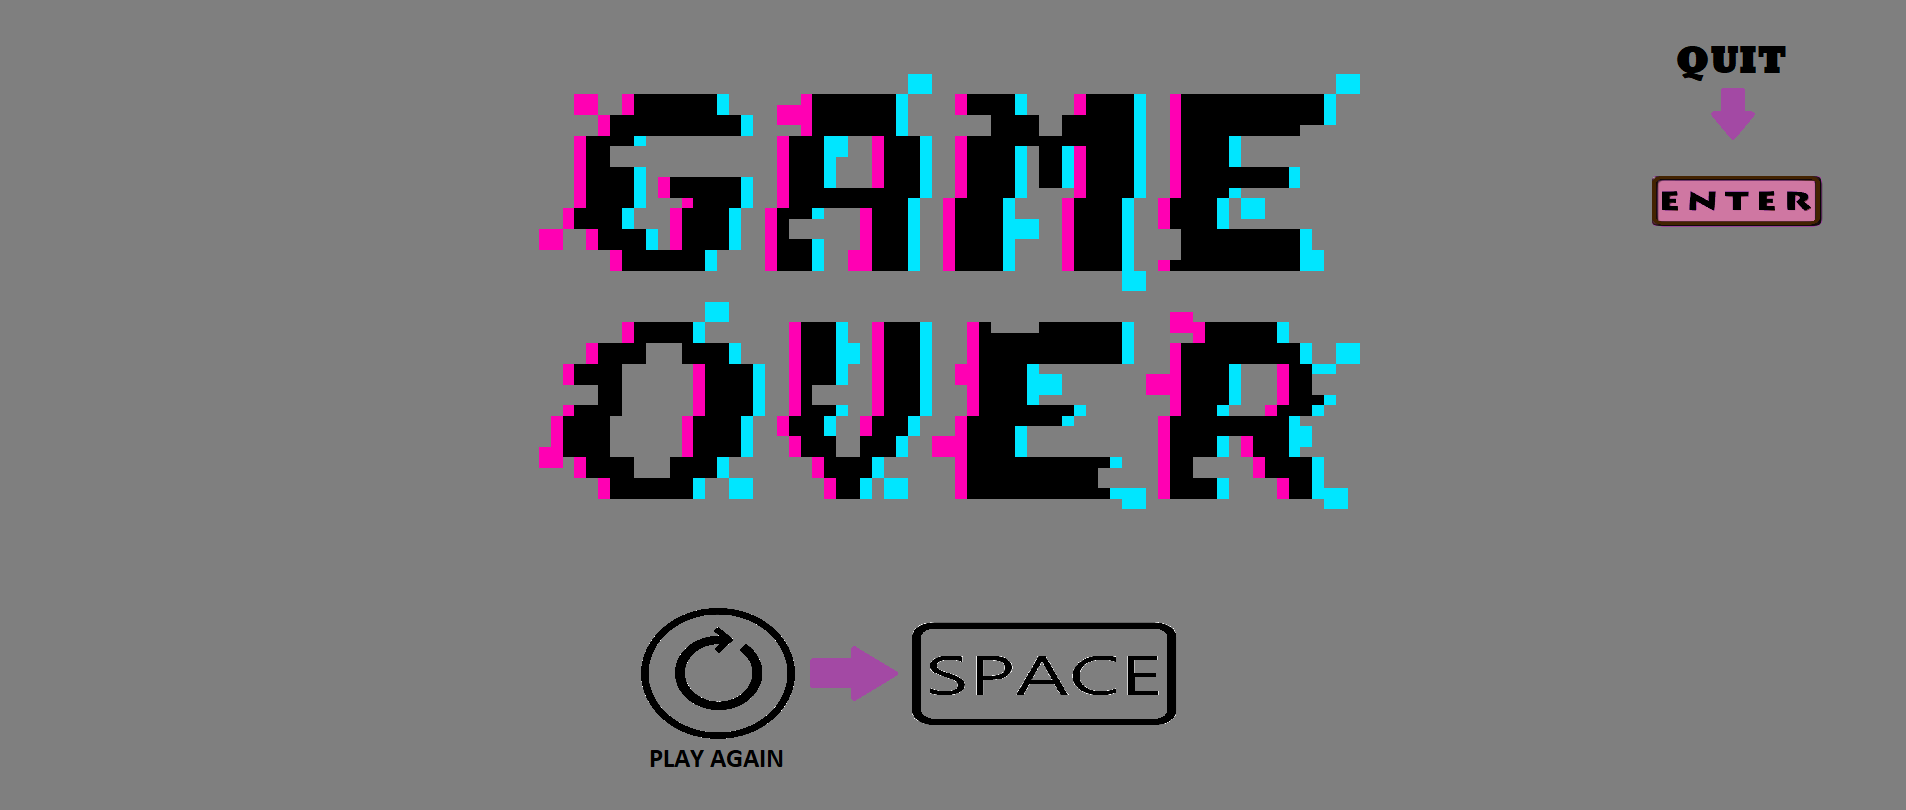
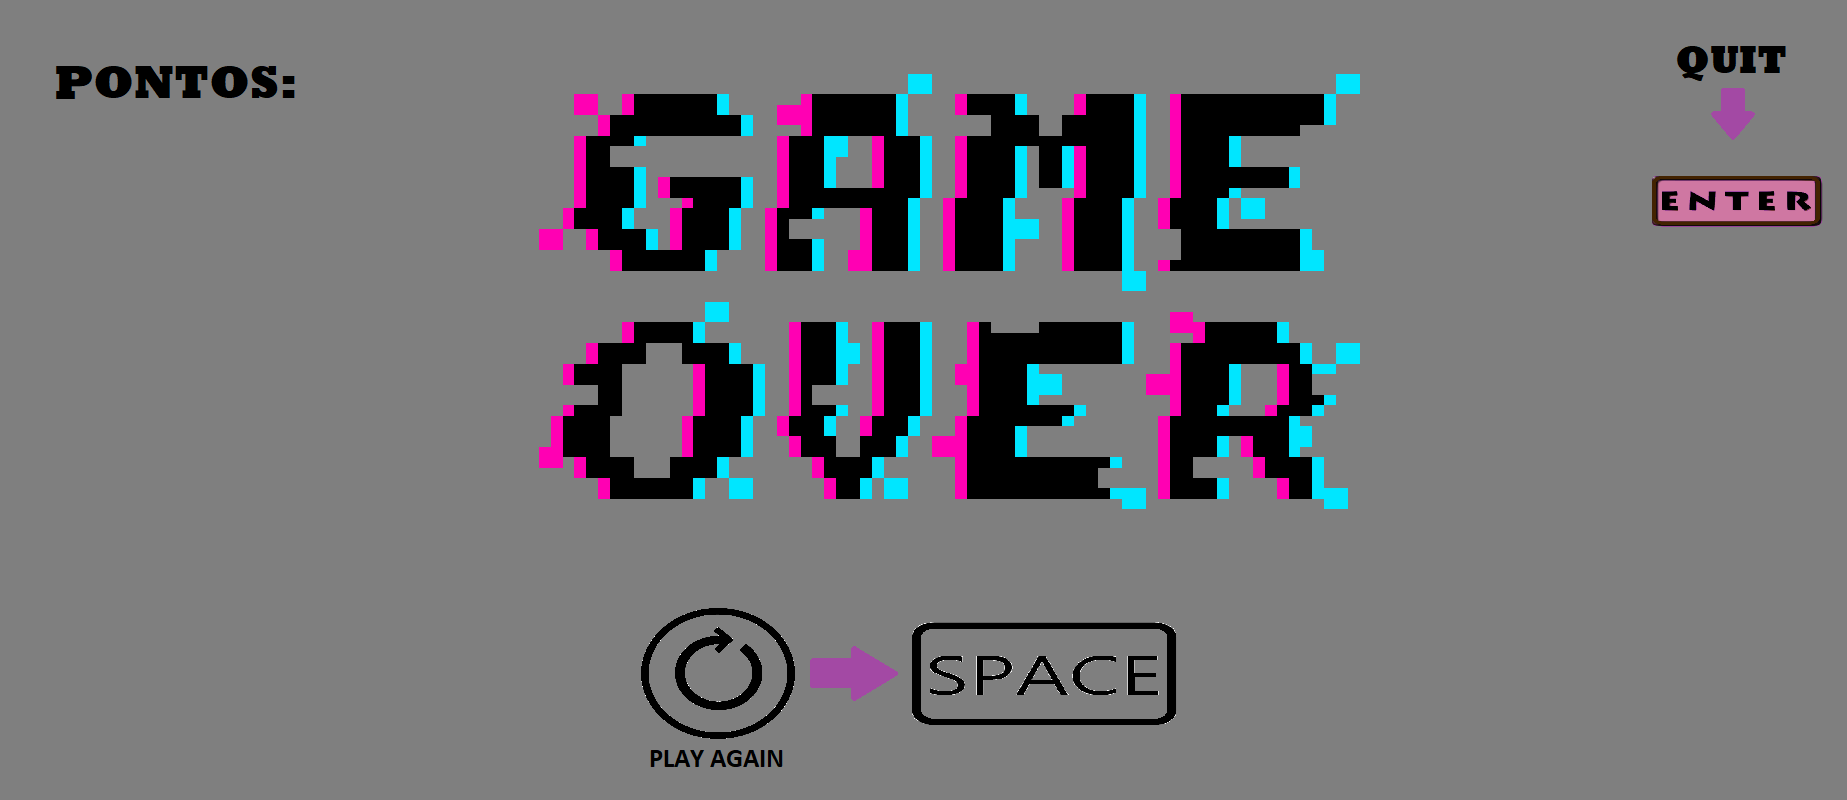
tela de derrota do jogo

diff --git a/foxy_road.py b/foxy_road.py
@@ -196,3 +196,43 @@ while True:
 
             clock.tick(60)
             pg.display.update()
+
+    # Tela de derrota
+    elif tela == 'tela de derrota':
+
+        # Inicializa de game over
+        fundo = pg.sprite.Group()
+        fundo.add(funcoes.sprite_fundo('imagens/fundos/derrota.png'))
+
+        # Loop da tela de game over
+        while tela == 'tela de derrota':
+            fundo.draw(win)
+            
+            # Detecta as teclas
+            pressed_keys = pg.key.get_pressed()
+
+            # Tecla ESPACO
+            if pressed_keys[pg.K_SPACE]:
+                tela = 'tela de animação'
+
+            # Tecla ENTER
+            elif pressed_keys[pg.K_RETURN]:
+                tela = -1
+
+            # Mostra Pontuacao na tela de game over
+            funcoes.placar(win, score, 100, 100)
+            
+            # Pygame
+            for event in pg.event.get():
+                if event.type == pg.QUIT:
+                    tela = -1
+                    break
+
+            clock.tick(60)
+            pg.display.update()
+
+    else:
+        break
+
+# Fecha o jogo
+pg.quit()
